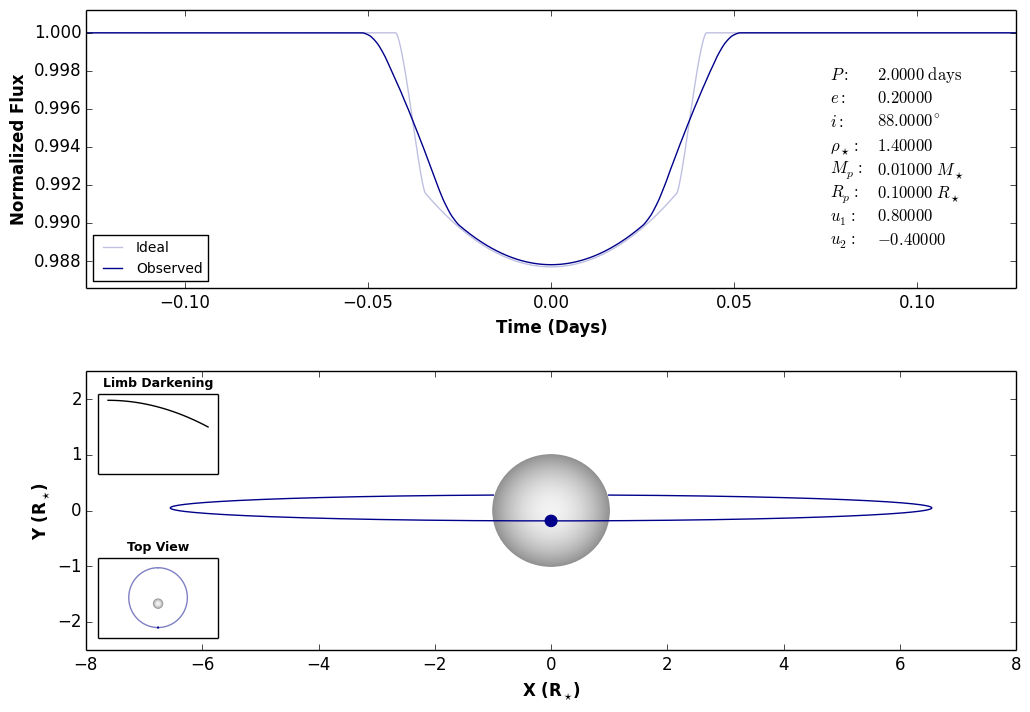
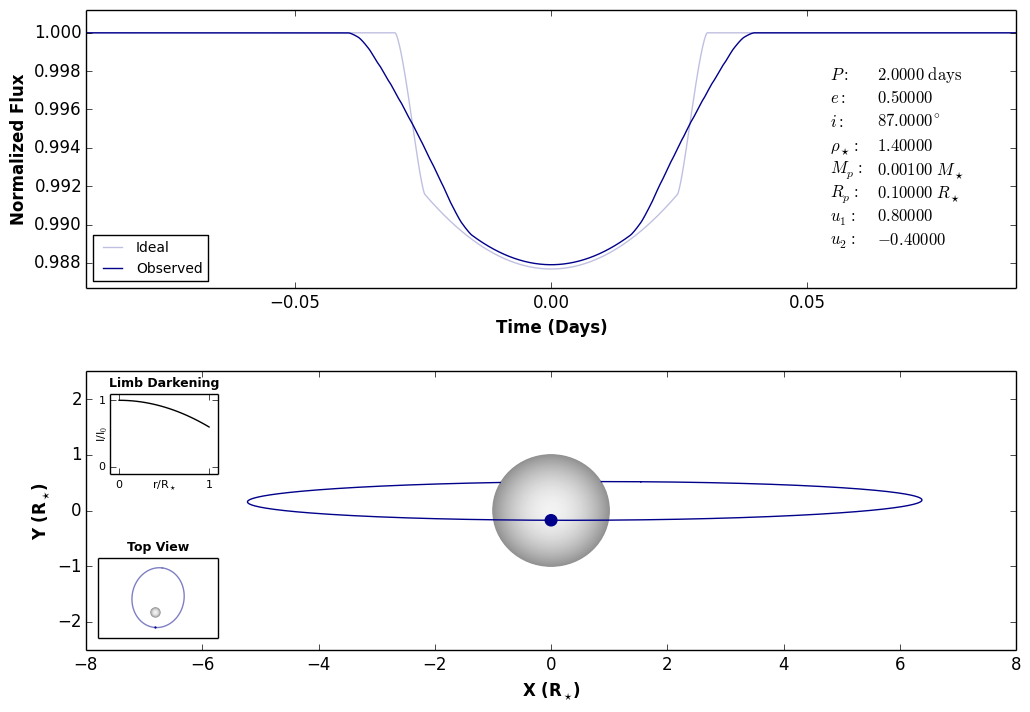
added ld labels

diff --git a/pysyzygy.py b/pysyzygy.py
@@ -95,6 +95,7 @@ def plot(**kwargs):
   exp_pts = kwargs.get('exp_pts', 10)
   plot_name = kwargs.get('plot_name', 'transit')
   plot_title = kwargs.get('plot_title', '')
+  show_params = kwargs.get('show_params', True)
   
   # Derived stuff
   aRs = ((G*rhos*(1. + MpMs)*(per*DAYSEC)**2)/(3*np.pi))**(1./3)
@@ -157,9 +158,13 @@ def plot(**kwargs):
     ax2.add_artist(star)
 
   # Inset: Limb darkening
-  inset1 = pl.axes([0.135, 0.32, .1, .1])
+  inset1 = pl.axes([0.145, 0.32, .09, .1])
   inset1.plot(r,Ir,'k-')
-  pl.setp(inset1, xlim=(-0.1,1.1), ylim=(-0.1,1.1), xticks=[], yticks=[])
+  pl.setp(inset1, xlim=(-0.1,1.1), ylim=(-0.1,1.1), xticks=[0,1], yticks=[0,1])
+  for tick in inset1.xaxis.get_major_ticks() + inset1.yaxis.get_major_ticks():
+    tick.label.set_fontsize(8)
+  inset1.set_ylabel(r'I/I$_0$', fontsize=8, labelpad=-8)
+  inset1.set_xlabel(r'r/R$_\star$', fontsize=8, labelpad=-8)
   inset1.set_title('Limb Darkening', fontweight='bold', fontsize=9)
   
   # Inset: Top view of orbit
@@ -209,31 +214,32 @@ def plot(**kwargs):
   ax2.set_ylabel(r'Y (R$_\star$)', fontweight='bold')
   ax1.set_title(plot_title, fontsize=12)
   
-  # Table of parameters
-  ltable = [ r'$P:$',
-             r'$e:$',
-             r'$i:$',
-             r'$\rho_\star:$',
-             r'$M_p:$',
-             r'$R_p:$',
-             r'$u_1:$',
-             r'$u_2:$']
-  rtable = [ r'$%.4f\ \mathrm{days}$' % per,
-             r'$%.5f$' % e,
-             r'$%.4f^\circ$' % (i*180./np.pi),
-             r'$%.5f$' % rhos,
-             r'$%.5f\ M_\star$' % MpMs,
-             r'$%.5f\ R_\star$' % RpRs,
-             r'$%.5f$' % u1,
-             r'$%.5f$' % u2]
-  yt = 0.75
-  for l,r in zip(ltable, rtable):
-    ax1.annotate(l, xy=(0.8, yt), xycoords="axes fraction")
-    ax1.annotate(r, xy=(0.85, yt), xycoords="axes fraction")
-    yt -= 0.085
+  if show_params:
+    # Table of parameters
+    ltable = [ r'$P:$',
+               r'$e:$',
+               r'$i:$',
+               r'$\rho_\star:$',
+               r'$M_p:$',
+               r'$R_p:$',
+               r'$u_1:$',
+               r'$u_2:$']
+    rtable = [ r'$%.4f\ \mathrm{days}$' % per,
+               r'$%.5f$' % e,
+               r'$%.4f^\circ$' % (i*180./np.pi),
+               r'$%.5f$' % rhos,
+               r'$%.5f\ M_\star$' % MpMs,
+               r'$%.5f\ R_\star$' % RpRs,
+               r'$%.5f$' % u1,
+               r'$%.5f$' % u2]
+    yt = 0.75
+    for l,r in zip(ltable, rtable):
+      ax1.annotate(l, xy=(0.8, yt), xycoords="axes fraction")
+      ax1.annotate(r, xy=(0.85, yt), xycoords="axes fraction")
+      yt -= 0.085
 
   fig.savefig(plot_name, bbox_inches='tight')
   pl.close()
 
 if __name__ == '__main__':
-  plot()
+  plot(e = 0.5, i = 87., w = 280.)
